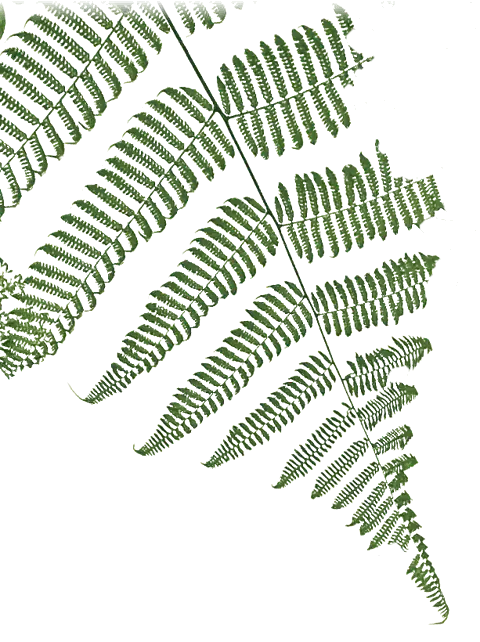
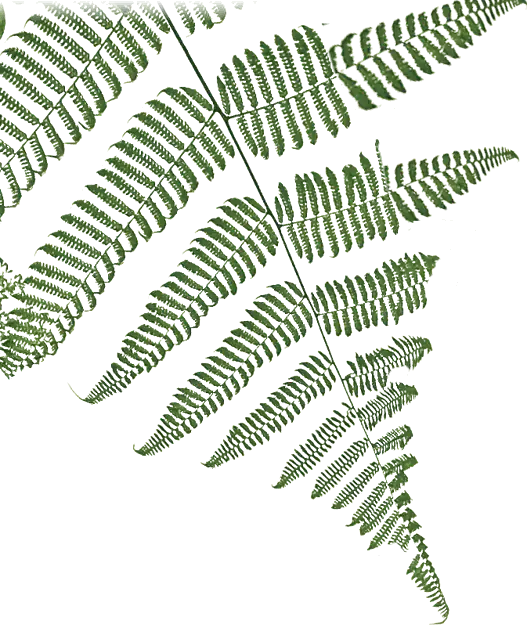
Rebuild the jacaranda's clipped tips from its own leaflets
Two upper pinnae were cut short where another plant hid their tips in
my photo. Each now continues into a tapered tip grafted from an intact
pinna of the same frond, scaled to match at the join, so every leaflet
still comes from the photo. The image is a little wider to fit them;
the branch keeps its size on the page.

diff --git a/cafe.css b/cafe.css
@@ -60,7 +60,7 @@
 .bough { position: absolute; --margin: max(0px, (100vw - 980px) / 2); }
 .bough img { width: 100%; height: auto; filter: brightness(var(--leaf-light)) drop-shadow(18px 26px 14px rgb(10 8 4 / .45)); }
 /* Jacaranda from the top left. */
-.bough-jacaranda { left: calc(var(--margin) * -.2 - 30px); top: -3vh; width: calc(var(--margin) * .9 + 90px); transform-origin: 0 0; animation: sky-sway-a 16.3s ease-in-out infinite; }
+.bough-jacaranda { left: calc(var(--margin) * -.2 - 30px); top: -3vh; width: calc((var(--margin) * .9 + 90px) * 1.098); transform-origin: 0 0; animation: sky-sway-a 16.3s ease-in-out infinite; }
 /* Bougainvillea from the right. */
 .bough-bougainvillea { right: calc(var(--margin) * -.35 - 40px); top: 54vh; width: calc(var(--margin) * 1.2 + 120px); transform-origin: 100% 74%; animation: sky-sway-b 19.7s ease-in-out infinite; }
 /* Ceiling, wall and counter stand between the eye and the branches. */

diff --git a/index.html b/index.html
@@ -23,7 +23,7 @@
     <div class="ct-grain"></div>
   </div>
   <div class="canopy" aria-hidden="true">
-    <div class="bough bough-jacaranda"><img src="assets/canopy-jacaranda.webp" alt="" width="480" height="642" decoding="async"></div>
+    <div class="bough bough-jacaranda"><img src="assets/canopy-jacaranda.webp" alt="" width="527" height="642" decoding="async"></div>
     <div class="bough bough-bougainvillea"><img src="assets/canopy-bougainvillea.webp" alt="" width="900" height="600" decoding="async"></div>
   </div>
   <div class="cafe-ceiling">

diff --git a/scripts/check-site.py b/scripts/check-site.py
@@ -72,7 +72,7 @@ def main():
         ('bricolage_fonts', ['assets/fonts/bricolage-grotesque-latin.woff2', 'assets/fonts/bricolage-grotesque-latin-ext.woff2', 'assets/fonts/bricolage-grotesque-vietnamese.woff2'], 128 * 1024),
         ('reflection_fonts', ['assets/fonts/fraunces/fraunces-medium-latin.woff2', 'assets/fonts/fraunces/fraunces-medium-latin-ext.woff2', 'assets/fonts/fraunces/fraunces-medium-vietnamese.woff2'], 80 * 1024),
         ('cafe_table', ['assets/table-grain.webp', 'assets/fleck-soft.webp', 'assets/fleck-a.webp', 'assets/fleck-b.webp', 'assets/fleck-c.webp'], 224 * 1024),
-        ('branches', ['assets/canopy-jacaranda.webp', 'assets/canopy-bougainvillea.webp'], 200 * 1024),
+        ('branches', ['assets/canopy-jacaranda.webp', 'assets/canopy-bougainvillea.webp'], 216 * 1024),
         ('seal_comparison', ['assets/seal-clio-before.webp', 'assets/seal-whig-before.webp'], 80 * 1024),
         ('cafe_fixtures', ['assets/trombone-lamp.svg', 'assets/plaster.svg', 'assets/cafe-lamp.svg'], 24 * 1024),
         ('paper_texture', ['assets/paper-do.svg'], 64 * 1024),
